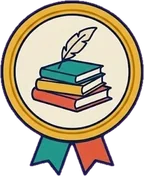
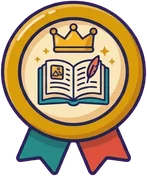
Acción automática: Archivos descomprimidos

diff --git a/js/version.js b/js/version.js
@@ -1,5 +1,5 @@
 // Versión de JugamiGO. Se muestra al pie de ⚙ Ajustes.
 // Al publicar cambios: sube el número aquí y añade una entrada en «Historial de versiones» del README.md.
 // MAYOR (cambios grandes en toda la app) · MENOR (juegos o funciones nuevas) · PARCHE (arreglos)
-export const VERSION = '3.91.16';
+export const VERSION = '3.91.17';
 export const FECHA = '2026-11-18';

diff --git a/sw.js b/sw.js
@@ -1,6 +1,6 @@
 // Service worker: guarda la app en caché para que funcione sin conexión.
 // La lista de archivos y VERSION se regeneran con:  python tools/generar_sw.py
-const VERSION = 'jr-5909123d82';
+const VERSION = 'jr-5d3418d6b9';
 const ARCHIVOS = [
 /*ARCHIVOS-INICIO*/
 './',

diff --git a/README.md b/README.md
@@ -1,4 +1,4 @@
-# JugamiGO 3.91.16
+# JugamiGO 3.91.17
 
 55 juegos (40 fichas, con once parejas y dos tríos agrupados) en 5 categorías: Sudoku, Nonogram, Bombardeo, Calcudoku, CruciSumas, Encajados, Deslizadas, Código Cifrado, Puentes Hashi, Match-Up (Lógica) · Damas, Ajedrez, Batalla Naval, Rummy Tile, Juego de la Oca, Partxis, Magnate Urbano, Hotel (tablero 3D), 3 en raya, Cuatro en Línea, Dominó, ¿Qué cara tienes?, Bingo Live, Bingo Mobile (Tablero) · BlackJack, Klondike, Spider y Carta Blanca (Solitarios), Texas Hold'em, Póker cubierto, Corazones, Brisca, Chinchón, Mus, Cinquillo, Hijoputa, Continental (Cartas) · Sopa de letras, Crucigramas, El Ahorcado, Ruleta Millonaria, El Rosco, Encadenadas, Números y Letras, Palabras Cruzadas, Trivia Quesitos (Palabras) · Serpiente, Vuela Alto, Quantix, Bloques, Rompe-Ladrillos, Air Hockey, Billar, Guerra de Orugas y Catapulta (Arcade).
 
@@ -247,6 +247,7 @@ Formato MAYOR.MENOR.PARCHE: MAYOR = cambios grandes en toda la app · MENOR = ju
 | **3.91.14** | 19/11/2026 | 🏆 **Todos los juegos pueden ganarse**: Hotel registra victoria/derrota (gana el jugador humano que termina primero), Bingo Live cuenta como victoria cantar bingo, Pinball al encender las 5 luces, Serpiente al llenar el tablero o comer 15 manzanas y Rompe-Ladrillos al despejar 2 niveles; así muestran la ventana de victoria y cuentan para los logros. «Completista» pasa a pedir los 60 juegos. Se corrige además el cierre que faltaba en `serpiente/index.js`. |
 | **3.91.15** | 19/11/2026 | 🏅 **60 logros**: 10 nuevos con medalla propia (`dias14` Quincena de hierro, `dias100` Cien jornadas, `maraton` Maratoniano, `equilibrio` Equilibrista, `maestro` Maestro absoluto —ganar en los 60 juegos—, `invicto` Invicto, `arcade3` Tres coronas, `tiempos15` Cronometrista, `triplete` Triplete y `semana7` Semana perfecta), todos con barra de progreso. Arreglo del Diario: una medalla que no cargaba estiraba en vertical todas las de su fila; ahora las medallas miniatura tienen tamaño fijo y no muestran texto alternativo. |
 | **3.91.16** | 19/11/2026 | 👑 **Los «Reyes» de cada categoría**: nuevo logro **Rey de los VideoJuegos** (25 victorias en juegos Arcade, medalla `arcade25`) en lugar de «Triplete» (se elimina `img/medallas/triplete.webp`), y los otros cuatro pasan a llamarse **Rey de la Sabiduría** (Lógica), **Rey de los Tableros**, **Rey de la Baraja** (Cartas) y **Rey del Lenguaje** (Palabras). Siguen siendo 60 logros. |
+| **3.91.17** | 19/11/2026 | 👑 Medallas nuevas con corona para Rey de la Sabiduría, Rey de los Tableros, Rey de la Baraja y Rey del Lenguaje (`logica25`, `tablero25`, `cartas25`, `palabras25`), a juego con Rey de los VideoJuegos. |
 | 3.5.1 | 23/10/2026 | 🪱 Worms: los avatares de Apariencia se ven sólidos (sobre un disco blanco con el color del equipo), el salto alto se puede dirigir (recto, o inclinado si mantienes ◀ ▶) y en el aire ◀ ▶ empujan al gusano; botones inferiores (Pasar turno, Nueva partida, Apariencia, Salir) y menú de ajustes sin fondo de imagen. 🎱 Billar: nueva **bola de efecto** en el panel de tiro para elegir dónde das a la blanca (alto: sigue tras el choque · bajo: retrocede · izquierda/derecha: efecto lateral que cambia el rebote en banda). |
 | 3.5.0 | 23/10/2026 | 🪱 **Worms** (Arcade, juego 40 y último): ver la descripción de arriba. Nuevos tapetes-escenario (Bosque, Ciudad, Estadio, Desierto, Espacio, Infierno, Lago y Medieval; ahora 20 en total) disponibles en «Tapetes» y «Fondo de Tablero» de todos los juegos. Nuevos sonidos (explosión, disparo, chapuzón…). Se retira una carpeta sobrante del Minigolf. |
 | 3.4.0 | 23/10/2026 | 🔡 **Scrabble** (Palabras, juego 39): tablero clásico de premios, 100 fichas en español con CH/LL/RR y comodines, de 2 a 4 jugadores contra la CPU (Fácil, Medio, Difícil) o entre personas, vista previa de palabras y puntos antes de jugar, pista, cambiar fichas, historial de jugadas y 🎨 Apariencia (fondo con todos los tapetes, tablero, fichas y rótulos). |
